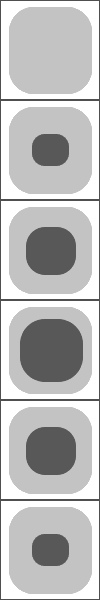
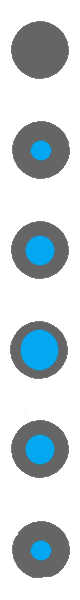
помечание зон в хексовой сети на фронтенде исправил взятие соседей

diff --git a/src/static/field/js/Map/SelectZone/MarkZone.js b/src/static/field/js/Map/SelectZone/MarkZone.js
@@ -1,29 +1,88 @@
-function MarkZone(cellSprite, placeCoordinate, x, y, selectClass, addEmpty, typeLine, selector) {
+function MarkZone(cellSprite, placeCoordinates, q, r, selectClass, addEmpty, typeLine, selector) {
+    let topLeft = false;
+    let topRight = false;
     let left = false;
     let right = false;
-    let top = false;
-    let bot = false;
+    let botLeft = false;
+    let botRight = false;
+
     let sprite;
     let line;
 
-    if (placeCoordinate.hasOwnProperty(Number(x) + 1)) {
-        if (placeCoordinate[Number(x) + 1].hasOwnProperty(y)) {
-            right = true;
-        }
-    }
+    /*
+        соседи гексов беруться по разному в зависимости от четности строки
+        // even {Q,R}
 
-    if (placeCoordinate.hasOwnProperty(Number(x) - 1)) {
-        if (placeCoordinate[Number(x) - 1].hasOwnProperty(y)) {
+           {0,-1}  {+1,-1}
+        {-1,0} {0,0} {+1,0}
+           {0,+1}  {+1,+1}
+
+        // odd
+          {-1,-1}  {0,-1}
+        {-1,0} {0,0} {+1,0}
+          {-1,+1}  {0,+1}
+    */
+
+    if (placeCoordinates.hasOwnProperty(Number(q) - 1)) {
+        if (placeCoordinates[Number(q) - 1].hasOwnProperty(Number(r))) {
             left = true;
         }
     }
 
-    if (placeCoordinate[x].hasOwnProperty(Number(y) - 1)) {
-        top = true;
+    if (placeCoordinates.hasOwnProperty(Number(q) + 1)) {
+        if (placeCoordinates[Number(q) + 1].hasOwnProperty(Number(r))) {
+            right = true;
+        }
     }
 
-    if (placeCoordinate[x].hasOwnProperty(Number(y) + 1)) {
-        bot = true;
+    if (r % 2 !== 0) {
+        if (placeCoordinates.hasOwnProperty(Number(q))) {
+            if (placeCoordinates[Number(q)].hasOwnProperty(Number(r) - 1)) {
+                topLeft = true;
+            }
+        }
+
+        if (placeCoordinates.hasOwnProperty(Number(q) + 1)) {
+            if (placeCoordinates[Number(q) + 1].hasOwnProperty(Number(r) - 1)) {
+                topRight = true;
+            }
+        }
+
+        if (placeCoordinates.hasOwnProperty(Number(q))) {
+            if (placeCoordinates[Number(q)].hasOwnProperty(Number(r) + 1)) {
+                botLeft = true;
+            }
+        }
+
+        if (placeCoordinates.hasOwnProperty(Number(q) + 1)) {
+            if (placeCoordinates[Number(q) + 1].hasOwnProperty(Number(r) + 1)) {
+                botRight = true;
+            }
+        }
+    } else {
+        if (placeCoordinates.hasOwnProperty(Number(q) - 1)) {
+            if (placeCoordinates[Number(q) - 1].hasOwnProperty(Number(r) - 1)) {
+                topLeft = true;
+            }
+        }
+
+        if (placeCoordinates.hasOwnProperty(Number(q))) {
+            if (placeCoordinates[Number(q)].hasOwnProperty(Number(r) - 1)) {
+                topRight = true;
+            }
+        }
+
+        if (placeCoordinates.hasOwnProperty(Number(q) - 1)) {
+            if (placeCoordinates[Number(q) - 1].hasOwnProperty(Number(r) + 1)) {
+                botLeft = true;
+            }
+        }
+
+        if (placeCoordinates.hasOwnProperty(Number(q))) {
+            if (placeCoordinates[Number(q)].hasOwnProperty(Number(r) + 1)) {
+                botRight = true;
+            }
+        }
     }
 
     if (addEmpty) {
@@ -31,85 +90,28 @@ function MarkZone(cellSprite, placeCoordinate, x, y, selectClass, addEmpty, type
         if (selector === "target") sprite = game.SelectLayer.create(cellSprite.x, cellSprite.y, 'selectTarget');
     }
 
-    if (right && left && !top && bot) {
-        line = typeLine.create(cellSprite.x, cellSprite.y, 'select' + selectClass + '_1');
+    if (!left) {
+        typeLine.create(cellSprite.x, cellSprite.y, 'line' + selectClass, 4);
     }
 
-    if (right && !left && top && bot) {
-        line = typeLine.create(cellSprite.x, cellSprite.y, 'select' + selectClass + '_1');
-        line.anchor.setTo(1, 0);
-        line.angle = -90;
+    if (!right) {
+        typeLine.create(cellSprite.x, cellSprite.y, 'line' + selectClass, 1);
     }
 
-    if (!right && left && top && bot) {
-        line = typeLine.create(cellSprite.x, cellSprite.y, 'select' + selectClass + '_1');
-        line.anchor.setTo(0, 1);
-        line.angle = 90;
+    if (!topLeft) {
+        typeLine.create(cellSprite.x, cellSprite.y, 'line' + selectClass, 5);
     }
 
-    if (right && left && top && !bot) {
-        line = typeLine.create(cellSprite.x, cellSprite.y, 'select' + selectClass + '_1');
-        line.anchor.setTo(0, 1);
-        line.scale.y *= -1;
+    if (!topRight) {
+        typeLine.create(cellSprite.x, cellSprite.y, 'line' + selectClass, 0);
     }
 
-    if (!right && left && top && !bot) {
-        line = typeLine.create(cellSprite.x, cellSprite.y, 'select' + selectClass + '_2');
-        line.anchor.setTo(0, 1);
-        line.scale.y *= -1;
+    if (!botLeft) {
+        typeLine.create(cellSprite.x, cellSprite.y, 'line' + selectClass, 3);
     }
 
-    if (right && !left && !top && bot) {
-        line = typeLine.create(cellSprite.x, cellSprite.y, 'select' + selectClass + '_2');
-        line.anchor.setTo(1, 0);
-        line.angle = -90;
-    }
-
-    if (right && !left && top && !bot) {
-        line = typeLine.create(cellSprite.x, cellSprite.y, 'select' + selectClass + '_2');
-        line.anchor.setTo(1, 1);
-        line.scale.x *= -1;
-        line.scale.y *= -1;
-    }
-
-    if (!right && left && !top && bot) {
-        typeLine.create(cellSprite.x, cellSprite.y, 'select' + selectClass + '_2');
-    }
-
-    if (right && left && !top && !bot) {
-        typeLine.create(cellSprite.x, cellSprite.y, 'select' + selectClass + '_4');
-    }
-
-    if (!right && !left && top && bot) {
-        line = typeLine.create(cellSprite.x, cellSprite.y, 'select' + selectClass + '_4');
-        line.anchor.setTo(1, 0);
-        line.angle = -90;
-    }
-
-    if (!right && !left && top && !bot) {
-        line = typeLine.create(cellSprite.x, cellSprite.y, 'select' + selectClass + '_3');
-        line.anchor.setTo(1, 1);
-        line.angle = -180;
-    }
-
-    if (!right && left && !top && !bot) {
-        line = typeLine.create(cellSprite.x, cellSprite.y, 'select' + selectClass + '_3');
-        line.anchor.setTo(0, 1);
-        line.angle = 90;
-    }
-
-    if (right && !left && !top && !bot) {
-        line = typeLine.create(cellSprite.x, cellSprite.y, 'select' + selectClass + '_3');
-        line.anchor.setTo(1, 0);
-        line.angle = -90;
-    }
-
-    if (!right && !left && !top && bot) {
-        typeLine.create(cellSprite.x, cellSprite.y, 'select' + selectClass + '_3');
-    }
-
-    if (!right && !left && !top && !bot) {
-        typeLine.create(cellSprite.x, cellSprite.y, 'select' + selectClass + '_5');
+    if (!botRight) {
+        typeLine.create(cellSprite.x, cellSprite.y, 'line' + selectClass, 2);
     }
 
     return sprite

diff --git a/src/static/field/js/Game/Preload.js b/src/static/field/js/Game/Preload.js
@@ -2,28 +2,15 @@ function preload() {
     game.stage.disableVisibilityChange = true; // не дает оставиться выполнения скрипта если окно скрыто
 
     // Select
-    game.load.image('selectPlace_1', 'http://' + window.location.host + '/assets/select/place1.png');
-    game.load.image('selectPlace_2', 'http://' + window.location.host + '/assets/select/place2.png');
-    game.load.image('selectPlace_3', 'http://' + window.location.host + '/assets/select/place3.png');
-    game.load.image('selectPlace_4', 'http://' + window.location.host + '/assets/select/place4.png');
-    game.load.image('selectPlace_5', 'http://' + window.location.host + '/assets/select/place5.png');
-
-    game.load.image('selectMove_1', 'http://' + window.location.host + '/assets/select/move1.png');
-    game.load.image('selectMove_2', 'http://' + window.location.host + '/assets/select/move2.png');
-    game.load.image('selectMove_3', 'http://' + window.location.host + '/assets/select/move3.png');
-    game.load.image('selectMove_4', 'http://' + window.location.host + '/assets/select/move4.png');
-    game.load.image('selectMove_5', 'http://' + window.location.host + '/assets/select/move5.png');
-
-    game.load.image('selectTarget_1', 'http://' + window.location.host + '/assets/select/target1.png');
-    game.load.image('selectTarget_2', 'http://' + window.location.host + '/assets/select/target2.png');
-    game.load.image('selectTarget_3', 'http://' + window.location.host + '/assets/select/target3.png');
-    game.load.image('selectTarget_4', 'http://' + window.location.host + '/assets/select/target4.png');
-    game.load.image('selectTarget_5', 'http://' + window.location.host + '/assets/select/target5.png');
-
+        // line
+    game.load.spritesheet('linePlace', 'http://' + window.location.host + '/assets/select/place.png', 80, 100, 6);
+    game.load.spritesheet('lineMove', 'http://' + window.location.host + '/assets/select/move.png', 80, 100, 6);
+    game.load.spritesheet('lineTarget', 'http://' + window.location.host + '/assets/select/target.png', 80, 100, 6);
+        // unit
     game.load.spritesheet('MySelectUnit', 'http://' + window.location.host + '/assets/select/mySelectUnit.png', 100, 100, 3);
     game.load.spritesheet('HostileSelectUnit', 'http://' + window.location.host + '/assets/select/hostileUnitSelect.png', 100, 100, 3);
-
-    game.load.spritesheet('selectEmpty', 'http://' + window.location.host + '/assets/select/empty.png', 100, 100, 6);
+        // zone
+    game.load.spritesheet('selectEmpty', 'http://' + window.location.host + '/assets/select/empty.png', 80, 100, 6);
     game.load.spritesheet('selectTarget', 'http://' + window.location.host + '/assets/select/TargetSet.png', 100, 100, 3);
 
     //Equip_Animate

diff --git a/src/static/field/js/Game/Create.js b/src/static/field/js/Game/Create.js
@@ -15,10 +15,10 @@ function create() {
     game.floorLayer = game.add.group();
 
     game.SelectLayer = game.add.group();
-    game.SelectLayer.alpha = 0.3;
+    game.SelectLayer.alpha = 0.4;
 
     game.SelectLineLayer = game.add.group();
-    game.SelectLineLayer.alpha = 0.7;
+    game.SelectLineLayer.alpha = 0.9;
     game.add.tween(game.SelectLineLayer).to( { alpha: 0.2 }, 1500, "Linear").loop(true).yoyo(true).start();
 
     game.SelectTargetLineLayer = game.add.group();

diff --git a/src/mechanics/localGame/Phases/movePhase/generateNeighboursCoordinate.go b/src/mechanics/localGame/Phases/movePhase/generateNeighboursCoordinate.go
@@ -9,58 +9,69 @@ import (
 
 func generateNeighboursCoordinate(client *player.Player, curr *coordinate.Coordinate, gameMap *_map.Map) (res map[string]map[string]*coordinate.Coordinate) {
 	/*
-	соседи гексов беруться по разному в зависимости от четности строки
-			// even
-			   {-1,0}  {-1,+1}
-			{0,-1} {0,0} {0,+1}
-			   {+1,0}  {+1,+1}
+        соседи гексов беруться по разному в зависимости от четности строки
+        // even {Q,R}
 
-			// odd
-			  {-1,-1}  {-1,0}
-			{0,-1} {0,0} {0,+1}
-			  {-1,+1}  {+1,0}
+           {0,-1}  {+1,-1}
+        {-1,0} {0,0} {+1,0}
+           {0,+1}  {+1,+1}
+
+        // odd
+          {-1,-1}  {0,-1}
+        {-1,0} {0,0} {+1,0}
+          {-1,+1}  {0,+1}
 	*/
 	res = make(map[string]map[string]*coordinate.Coordinate)
 
-	NeighboursOne, oneOk := checkValidForMoveCoordinate(client, gameMap, curr.Q - 1, curr.R)
-	if oneOk && checkLevelCoordinate(curr, NeighboursOne) {
-		Phases.AddCoordinate(res, NeighboursOne)
+	neighboursLeft, left := checkValidForMoveCoordinate(client, gameMap, curr.Q - 1, curr.R)
+	if left && checkLevelCoordinate(curr, neighboursLeft) {
+		Phases.AddCoordinate(res, neighboursLeft)
 	}
 
-	NeighboursTwo, twoOk := checkValidForMoveCoordinate(client, gameMap, curr.Q, curr.R - 1)
-	if twoOk && checkLevelCoordinate(curr, NeighboursTwo) {
-		Phases.AddCoordinate(res, NeighboursTwo)
-	}
-
-	NeighboursThree, threeOk := checkValidForMoveCoordinate(client, gameMap, curr.Q + 1, curr.R)
-	if threeOk && checkLevelCoordinate(curr, NeighboursThree) {
-		Phases.AddCoordinate(res, NeighboursThree)
-	}
-
-	NeighboursFour, fourOk := checkValidForMoveCoordinate(client, gameMap, curr.Q, curr.R + 1)
-	if fourOk && checkLevelCoordinate(curr, NeighboursFour) {
-		Phases.AddCoordinate(res, NeighboursFour)
+	NeighboursRight, right := checkValidForMoveCoordinate(client, gameMap, curr.Q + 1, curr.R)
+	if right && checkLevelCoordinate(curr, NeighboursRight) {
+		Phases.AddCoordinate(res, NeighboursRight)
 	}
 
 	if curr.R % 2 != 0 {
-		NeighboursFive, fiveOk := checkValidForMoveCoordinate(client, gameMap, curr.Q + 1, curr.R - 1)
-		if fiveOk && checkLevelCoordinate(curr, NeighboursFive) {
-			Phases.AddCoordinate(res, NeighboursFive)
+		NeighboursTopLeft, topLeft := checkValidForMoveCoordinate(client, gameMap, curr.Q, curr.R - 1)
+		if topLeft && checkLevelCoordinate(curr, NeighboursTopLeft) {
+			Phases.AddCoordinate(res, NeighboursTopLeft)
 		}
 
-		NeighboursSix, sixOk := checkValidForMoveCoordinate(client, gameMap, curr.Q + 1, curr.R + 1)
-		if sixOk && checkLevelCoordinate(curr, NeighboursSix) {
-			Phases.AddCoordinate(res, NeighboursSix)
+		NeighboursTopRight, topRight := checkValidForMoveCoordinate(client, gameMap, curr.Q + 1, curr.R - 1)
+		if topRight && checkLevelCoordinate(curr, NeighboursTopRight) {
+			Phases.AddCoordinate(res, NeighboursTopRight)
+		}
+
+		NeighboursBotLeft, botLeft := checkValidForMoveCoordinate(client, gameMap, curr.Q, curr.R + 1)
+		if botLeft && checkLevelCoordinate(curr, NeighboursBotLeft) {
+			Phases.AddCoordinate(res, NeighboursBotLeft)
+		}
+
+		NeighboursBotRight, botRight := checkValidForMoveCoordinate(client, gameMap, curr.Q + 1, curr.R + 1)
+		if botRight && checkLevelCoordinate(curr, NeighboursBotRight) {
+			Phases.AddCoordinate(res, NeighboursBotRight)
 		}
 	} else {
-		NeighboursFive, fiveOk := checkValidForMoveCoordinate(client, gameMap, curr.Q - 1, curr.R - 1)
-		if fiveOk && checkLevelCoordinate(curr, NeighboursFive) {
-			Phases.AddCoordinate(res, NeighboursFive)
+		NeighboursTopLeft, topLeft := checkValidForMoveCoordinate(client, gameMap, curr.Q - 1, curr.R - 1)
+		if topLeft && checkLevelCoordinate(curr, NeighboursTopLeft) {
+			Phases.AddCoordinate(res, NeighboursTopLeft)
 		}
 
-		NeighboursSix, sixOk := checkValidForMoveCoordinate(client, gameMap, curr.Q - 1, curr.R + 1)
-		if sixOk && checkLevelCoordinate(curr, NeighboursSix) {
-			Phases.AddCoordinate(res, NeighboursSix)
+		NeighboursTopRight, topRight := checkValidForMoveCoordinate(client, gameMap, curr.Q, curr.R - 1)
+		if topRight && checkLevelCoordinate(curr, NeighboursTopRight) {
+			Phases.AddCoordinate(res, NeighboursTopRight)
+		}
+
+		NeighboursBotLeft, botLeft := checkValidForMoveCoordinate(client, gameMap, curr.Q - 1, curr.R + 1)
+		if botLeft && checkLevelCoordinate(curr, NeighboursBotLeft) {
+			Phases.AddCoordinate(res, NeighboursBotLeft)
+		}
+
+		NeighboursBotRight, botRight := checkValidForMoveCoordinate(client, gameMap, curr.Q, curr.R + 1)
+		if botRight && checkLevelCoordinate(curr, NeighboursBotRight) {
+			Phases.AddCoordinate(res, NeighboursBotRight)
 		}
 	}
 
